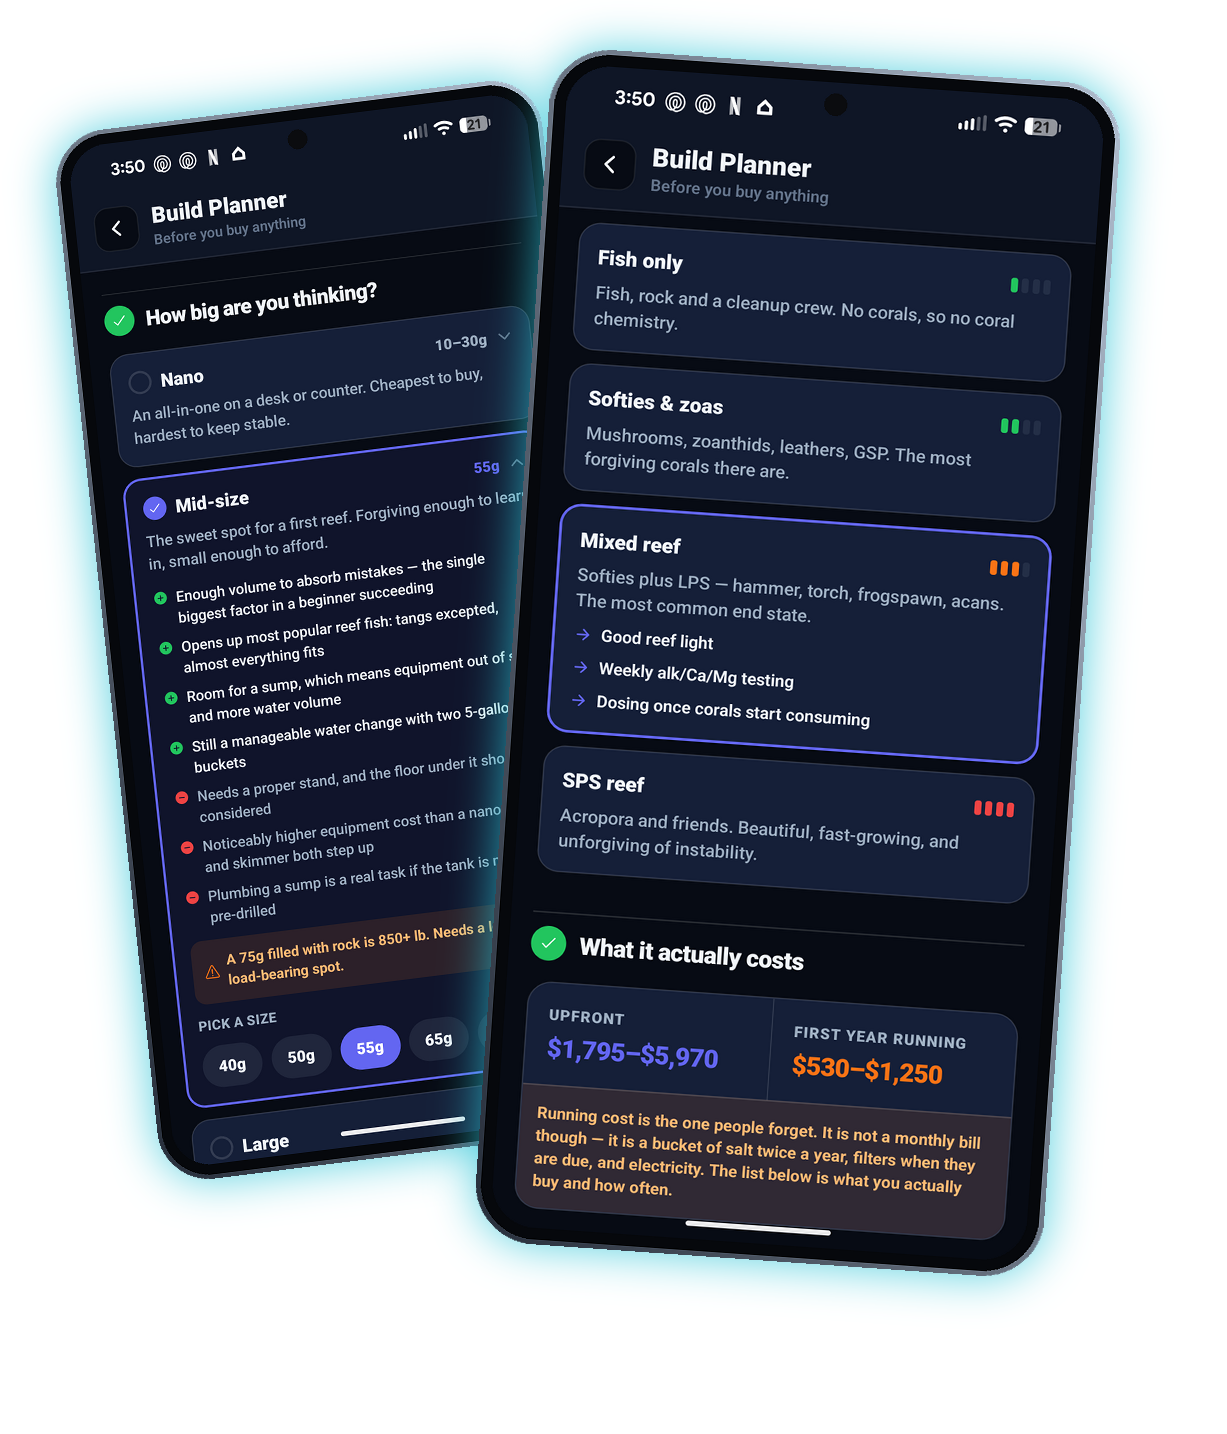
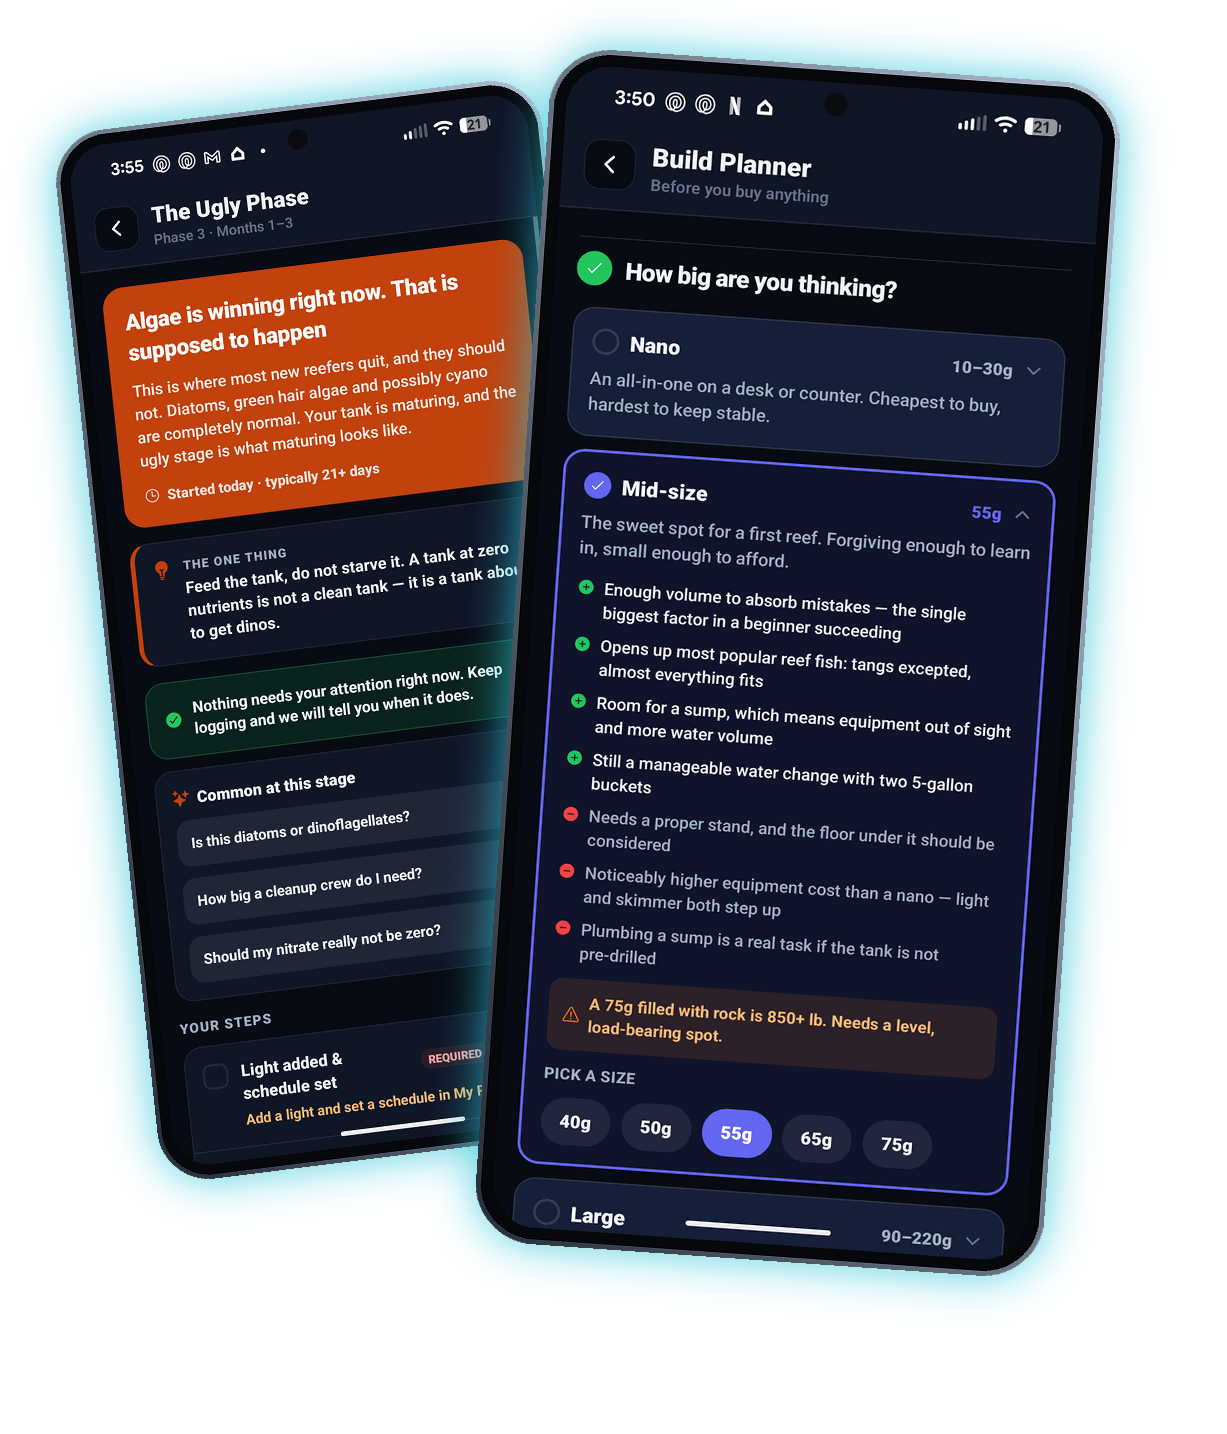
Rescue the dead Hub post, and finish the planning section
/blog/nextupreef-hub-vs-neptune-apex has been hard-404ing since 24c4a28
removed the Hub product and took the post with it. Google still has the
URL indexed (last crawled 2026-08-19), so every crawl hit a 404 and any
link equity went nowhere. It now 301s to /devices, which is where that
commit moved the content and which answers what the searcher is actually
asking: does this work with my Apex.

The rest is the New to Reefing section finishing what it started. The
headline was "Then keep it alive", which frames the hobby as survival to
people who have not started yet; it now reads "Your dream reef, without
the guesswork." The section also led on cost, which made the pitch about
money rather than the reef someone wants - the planner still computes it,
that is just no longer the hook. The phone composite is rebuilt around
the size picker instead of the price breakdown to match.

scripts/frame-phone.py and frame-phones-duo.py are renamed to underscores.
Hyphens are not importable, so frame_phones_duo could not import the other
one - the duo composite was broken from the moment it shipped.

Changed region(s): [[0.0619, 0.0921, 0.8981, 0.8898]]

diff --git a/app/page.tsx b/app/page.tsx
@@ -430,15 +430,15 @@ export default function HomePage() {
           <div style={{ display: "flex", flexDirection: "column", gap: "28px" }}>
             <div className="section-label">New to Reefing?</div>
             <h2 style={{ fontSize: "clamp(28px, 5vw, 46px)", fontWeight: 900, margin: 0, letterSpacing: "-0.03em", lineHeight: 1.1 }}>
-              Buy the right tank.<br />Then keep it alive.
+              Your dream reef,<br />without the guesswork.
             </h2>
             <p style={{ fontSize: "17px", color: "var(--text-muted)", lineHeight: 1.7, margin: 0, maxWidth: "420px" }}>
-              Most people who leave this hobby leave in the first year. They bought the wrong tank, or nobody told them the algae was normal. We start before you have spent a dollar and stay with you through every phase of the first year.
+              Most people who leave this hobby leave in the first year. They bought the wrong tank, or nobody told them the algae was normal. We help you plan the reef you actually want, then stay with you through every phase of the first year.
             </p>
             <div style={{ display: "flex", flexDirection: "column", gap: "20px" }}>
               {[
-                { title: "We help you buy it", desc: "Pick a size and what you want to keep, and see what it really costs — to buy and to run for a year — plus the gear and salt reefers with that tank actually use. Most first tanks get bought twice." },
-                { title: "Then we walk you through it", desc: "Six phases from first fill to established reef. Every one tells you what to do now, what to ignore, and when you are genuinely ready for the next." },
+                { title: "We help you plan it", desc: "How big, what you want to keep, and what each choice really means — with the gear, salt and livestock that reefers with tanks like that actually run. Most first tanks get bought twice." },
+                { title: "Then we walk you through it", desc: "Six phases from first fill to established reef, step by step. Every one tells you what to do now, what to ignore, and when you are genuinely ready for the next." },
                 { title: "Especially the parts that make people quit", desc: "The cycle. The algae. The first fish. We tell you when the tank is ready for a living thing — and, more importantly, when it is not." },
               ].map((f) => (
                 <div key={f.title} style={{ display: "flex", gap: "14px", alignItems: "flex-start" }}>
@@ -455,7 +455,7 @@ export default function HomePage() {
             </Link>
           </div>
           <div className="feature-spotlight-phone">
-            <Image src="/screenshots/site-v3/phones-planner.png" alt="Build Planner asking how big a tank you are thinking about, in front of the screen that asks what you want to keep and gives the estimated upfront and first-year running cost" width={1227} height={1434} style={{ height: "auto" }} />
+            <Image src="/screenshots/site-v3/phones-planner.png" alt="The Ugly Phase screen explaining that the algae is supposed to happen, behind the Build Planner working out which tank size suits a first reef" width={1227} height={1434} style={{ height: "auto" }} />
           </div>
         </div>
       </section>

diff --git a/next.config.ts b/next.config.ts
@@ -13,6 +13,16 @@ const nextConfig: NextConfig = {
         destination: "https://nextupreef.com/:path*",
         permanent: true,
       },
+      // The Hub product was dropped in 24c4a28 ("Remove Hub, add Apex integration to
+      // devices") and this post went with it, but Google still has the URL indexed
+      // (last crawled 2026-08-19) and it was hard-404ing. /devices is where that
+      // content moved, and it answers what the searcher actually wants: does this
+      // work with my Apex.
+      {
+        source: "/blog/nextupreef-hub-vs-neptune-apex",
+        destination: "/devices",
+        permanent: true,
+      },
     ];
   },
 };

diff --git a/scripts/frame_phone.py b/scripts/frame_phone.py
@@ -90,7 +90,7 @@ if __name__ == "__main__":
     print(sys.argv[2], frame(sys.argv[1], sys.argv[2]))
 
 # Usage:
-#   python3 scripts/frame-phone.py <raw-screenshot.png> public/screenshots/site-v3/<name>.png
+#   python3 scripts/frame_phone.py <raw-screenshot.png> public/screenshots/site-v3/<name>.png
 #
 # Input is a raw 9:20 phone screenshot (a 1008x2244 Android grab works as-is).
 # Output is 777x1557 with transparency, the same geometry as the phones already

diff --git a/scripts/frame_phones_duo.py b/scripts/frame_phones_duo.py
@@ -8,7 +8,7 @@ import os, sys
 sys.path.insert(0, os.path.dirname(os.path.abspath(__file__)))
 import numpy as np
 from PIL import Image, ImageDraw, ImageFilter
-import frame as F
+import frame_phone as F
 
 W, H = 1227, 1434
 REEF = (44, 196, 214)
